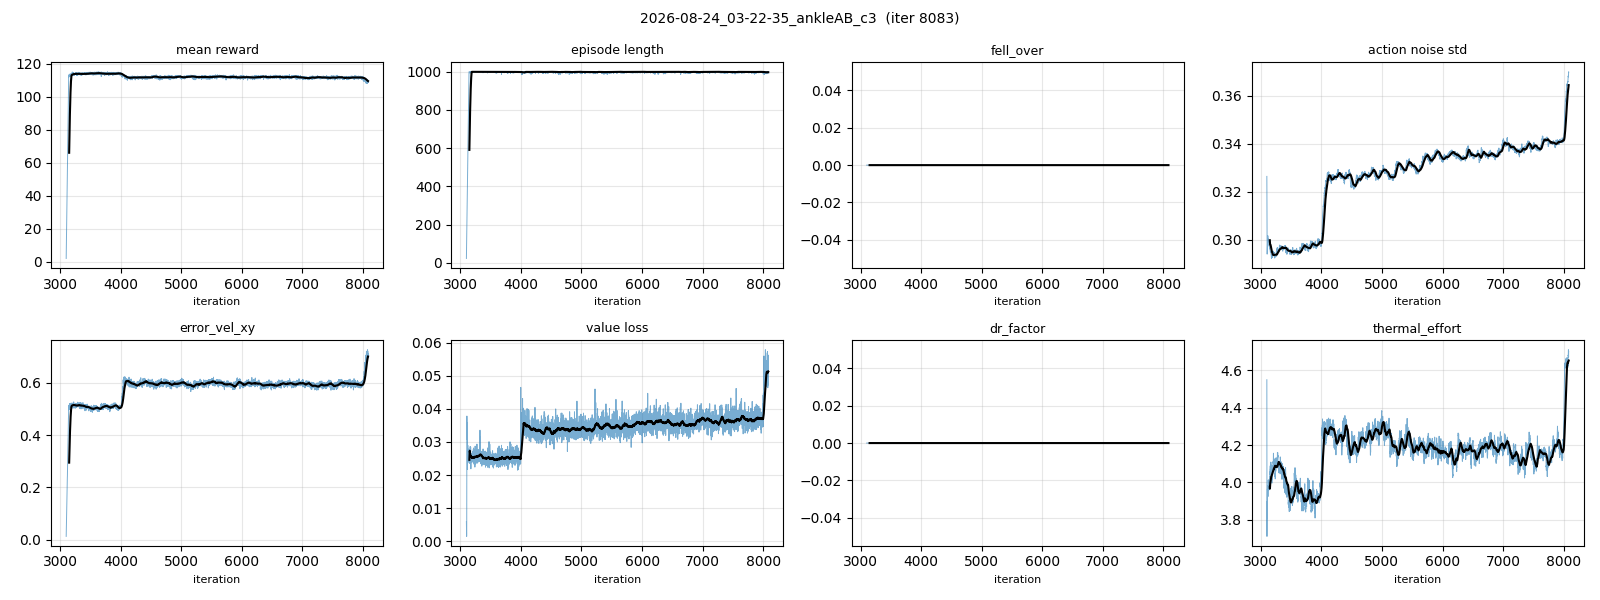
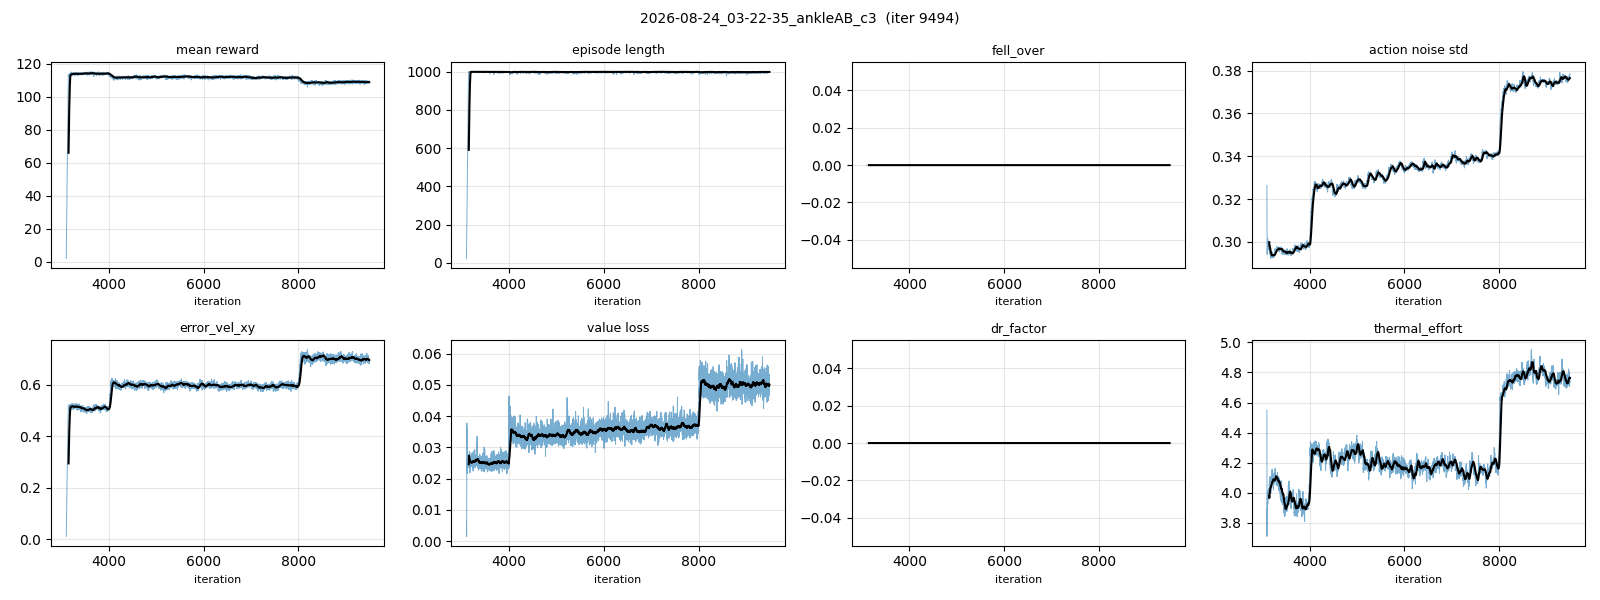
c3 progress sync: 9.5k/32k, DR ramp pending at 10k (registry + canvas + snapshot rows)

diff --git a/docs/66_experiment_registry.md b/docs/66_experiment_registry.md
@@ -114,7 +114,7 @@
 |---|---|---|---|
 | ~~ankleAB_c1 / ankleRP_c1~~ (`20-45-09/27`, ✗ iter 172 중단) | 팔이 영점(매달림)으로 weld → hip_roll 링크와 14 mm 관통 | — | ✗ 상체 팔 15° 외전 고정 후 c2로 재시작 |
 | (config-test) ankleAB_softtest / softtest2 [[2026-08-24_ankleAB_softtest]] [[2026-08-24_ankleAB_softtest2]] (02:00 / 02:43, c2r 3100+800 iter, 1024 env) | soft-landing 항 형태: 선형 w −2 vs 제곱 w −1 | 접지속도 1.24 → **2.42**(선형, 해킹) / **0.98**(제곱) m/s; 피크 1.50 → 1.66 / 1.31 BW | 선형 기각·제곱 채택 → c3 |
-| **ankleAB_c3 / ankleRP_c3** "flat-2.5max gen21-bundle+**soft-landing** curriculum-dr+push ankle-AB / -RP (2026-08-24)" (`03-22-35` / `03-22-58`, 🔄학습중, 각 model_3100에서 warm-start, 총 32k) [[2026-08-24_ankleAB_c3]] [[2026-08-24_ankleRP_c3]] | c2 + `PYG_SOFT_LANDING` (foot_impact_velocity Σrelu(−v_z)²·[h<0.10∧공중] w −1, contact_force_cap 420/560 N) — 두 arm 동일, 3100까지 이력 동일 | 시험(AB 3100+800, 1024env): 접지속도 1.24→0.98 m/s, GRF 피크 1.50→1.31 BW, 추종 유지, 스윙높이 0.116→0.080 m(감시) | 🔄 4k(vx1.2): AB 0.90 m/s·1.00 BW / RP 1.14·1.22 · 8k(vx1.6): **RP가 더 부드러움** 0.85·1.03 vs AB 0.93·1.23, 접지 p90 1.96 꼬리, ⚠AB 정지 제자리걸음(발움직임 0.115 m/s·duty 0.87→12k 재확인). 스윙 0.112/0.082 m > 역치 → w −1 유지. 1:1 영상·그림 [[93_ankle_ab_rp_comparison_plan]] §5c. 선형형은 해킹(2.42 m/s)으로 기각 — [[95_soft_landing_prescription]] |
+| **ankleAB_c3 / ankleRP_c3** "flat-2.5max gen21-bundle+**soft-landing** curriculum-dr+push ankle-AB / -RP (2026-08-24)" (`03-22-35` / `03-22-58`, 🔄학습중 9.5k/32k, ETA 08-25 18:40) [[2026-08-24_ankleAB_c3]] [[2026-08-24_ankleRP_c3]] | c2 + `PYG_SOFT_LANDING` (foot_impact_velocity Σrelu(−v_z)²·[h<0.10∧공중] w −1, contact_force_cap 420/560 N) — 두 arm 동일, 3100까지 이력 동일 | 시험(AB 3100+800, 1024env): 접지속도 1.24→0.98 m/s, GRF 피크 1.50→1.31 BW, 추종 유지, 스윙높이 0.116→0.080 m(감시) | 🔄 4k(vx1.2): AB 0.90 m/s·1.00 BW / RP 1.14·1.22 · 8k(vx1.6): **RP가 더 부드러움** 0.85·1.03 vs AB 0.93·1.23, 접지 p90 1.96 꼬리, ⚠AB 정지 제자리걸음(발움직임 0.115 m/s·duty 0.87→12k 재확인). 스윙 0.112/0.082 m > 역치 → w −1 유지. 1:1 영상·그림 [[93_ankle_ab_rp_comparison_plan]] §5c. 선형형은 해킹(2.42 m/s)으로 기각 — [[95_soft_landing_prescription]] |
 | **ankleAB_c2 → c2r** "flat-2.5max gen21-bundle curriculum-dr+push ankle-AB-loop (2026-08-23)" (`21-02-10` → OOM iter1252 → `23-17-35_ankleAB_c2r` resume model_1200, ⏸ iter 4400에서 중단 → c3로 계승) [[2026-08-23_ankleAB_c2]] | vs gen21_bent_p2: 프린트 질량·실측 모터(RS04 J .0163/b .0095/tc .269, RS03 .0153/.0223/.285)·T-N 곡선·**폐루프 발목(크랭크 RS03 ×2, Kp 22.3/Kd 1.41/60 N·m)**·단일 런 커리큘럼(DR 10k→20k, vx 단계 2.5@16k)·16384 env·상체 weld+팔 15° 외전 고정·hip_yaw ±45° | iter 610: reward 109·fell 0; iter 1200 분석(93 §5b): 보행 발목 17° 사용·토크 12.8 N·m·GRFc 1.39 BW, **정지 잔떨림+0.4 Hz 스웨이**; 최신 스냅샷 iter 2659(08-24 01:22): reward 114.1(50avg 114.4)·fell 0.000·err_vel_xy 0.509·thermal 4.02 | 🔄 CONTINUE (4k 게이트서 정지 떨림 재확인) |
 | (분석) 폐루프 구속 강성 solimp 전례·변인통제 [[94_loop_constraint_stiffness]] (2026-08-24) | 같은 AB 정책, 구속만 0.9→0.9999 5단계 | 튐 |Δτ| p99: 기본 18.0 / 0.99–0.9999 11–12 N·m, 폐루프 오차 8.4→0.08 mm | 0.999 유지; 학습 A/B(0.95/0.99·solref 5 ms, BRUCE 데드밴드)는 본런 후 |
 | **ankleRP_c2** "flat-2.5max gen21-bundle curriculum-dr+push ankle-RP-serial (2026-08-23)" (`2026-08-23_21-02-18`, ⏸ iter 3400에서 중단 → c3로 계승) [[2026-08-23_ankleRP_c2]] | ankleAB_c2와 **단일변인 = 발목 기구**: 직렬 pitch/roll(Kp 28.5/Kd 1.81) + 루프 자코비안 크랭크공간 클램프(±60, T-N) + 반영 관성/마찰. env.yaml diff = 발목 항목만(launch 직후 확인) | iter 610: reward 113·fell 0; iter 1200 분석: 발목 10° 사용·**bang-bang 목표(−40↔+35°) PD 포화 토크 스파이크**·GRFc 1.51 BW; 최신 스냅샷 iter 3433(08-24 02:22): reward 113.5(50avg 113.8)·fell 0.000·err_vel_xy 0.509·thermal 3.56 | 🔄 CONTINUE |

diff --git a/docs/experiments/2026-08-24_ankleAB_c3.md b/docs/experiments/2026-08-24_ankleAB_c3.md
@@ -25,3 +25,7 @@
 | 08-24 09:27 | 7486 | 112.0 (50avg 111.7) | 1000 | 0.339 | 0.0366 | 2.91 | -0.0049 / 5.8e-04 | 0.000 / 0.000 | 0.580 / 0.485 | 0.00 / 1.2 | 4.14 | (자동 스냅샷, 판정은 게이트 리뷰에서) |
 | 08-24 10:10 | 8001 | 110.8 (50avg 111.6) | 996 | 0.342 | 0.0417 | 3.02 | -0.0053 / 5.8e-04 | 0.000 / 0.042 | 0.599 / 0.489 | 0.00 / 1.6 | 4.32 | vx1.2 구간 안정화(4.2k→8k): reward 111.8→112.0·err_vel 0.61→0.59 회복, fell 0, thermal 4.16 → CONTINUE. 4000 게이트 측정 완료(접지 0.90 m/s·피크 1.00 BW·스윙 0.092 m, docs/95 §7) — 해킹 징후 없음 |
 | 08-24 10:17 | 8083 | 108.8 (50avg 109.6) | 996 | 0.370 | 0.0482 | 3.95 | -0.0055 / 5.8e-04 | 0.000 / 0.208 | 0.713 / 0.524 | 0.00 / 1.6 | 4.70 | 8000 게이트 측정(vx 1.6 진입): 접지 0.93 m/s·피크 1.23 BW·하중률 104, 스윙 0.112 m(역치 위) → CONTINUE. ⚠정지 명령 제자리걸음(발움직임 0.009→0.115 m/s, duty 0.87) — 12k 재확인 대상, docs/95 §7 |
+| 08-24 10:27 | 8206 | 108.3 (50avg 108.5) | 1000 | 0.374 | 0.0461 | 4.10 | -0.0050 / 5.8e-04 | 0.000 / 0.083 | 0.711 / 0.539 | 0.00 / 1.6 | 4.71 | (자동 스냅샷, 판정은 게이트 리뷰에서) |
+| 08-24 11:17 | 8792 | 109.4 (50avg 108.9) | 1000 | 0.373 | 0.0525 | 4.08 | -0.0056 / 3.8e-04 | 0.000 / 0.083 | 0.691 / 0.536 | 0.00 / 1.6 | 4.73 | vx1.6 적응 중(8.6k): reward 111.6→108.5·err_vel 0.70(명령대역 확대분), fell 0, DR 아직 0(10k부터) → CONTINUE. AB/RP 1:1 비교영상 제작(docs/video/abrp_sidebyside_g8000.mp4, abrp_shadow_g8000.mp4) |
+| 08-24 11:28 | 8920 | 109.5 (50avg 108.9) | 1000 | 0.376 | 0.0533 | 4.14 | -0.0059 / 5.8e-04 | 0.000 / 0.083 | 0.715 / 0.539 | 0.00 / 1.6 | 4.81 | (자동 스냅샷, 판정은 게이트 리뷰에서) |
+| 08-24 12:16 | 9494 | 109.1 (50avg 109.0) | 1000 | 0.378 | 0.0479 | 4.26 | -0.0052 / 5.8e-04 | 0.000 / 0.042 | 0.693 / 0.538 | 0.00 / 1.6 | 4.76 | 9.5k(vx1.6 유지, DR 램프 직전): reward 109.1·err_vel 0.70·fell 0·low_base 0.08, impact_vel 0.151 유지 → CONTINUE. ETA 08-25 18:40 |

diff --git a/docs/experiments/2026-08-24_ankleRP_c3.md b/docs/experiments/2026-08-24_ankleRP_c3.md
@@ -25,3 +25,7 @@
 | 08-24 09:27 | 7479 | 111.9 (50avg 111.7) | 1000 | 0.336 | 0.0359 | 2.90 | -0.0055 / 5.8e-04 | 0.000 / 0.000 | 0.587 / 0.484 | 0.00 / 1.2 | 3.67 | (자동 스냅샷, 판정은 게이트 리뷰에서) |
 | 08-24 10:10 | 7993 | 111.4 (50avg 111.6) | 1000 | 0.340 | 0.0367 | 3.02 | -0.0049 / 5.8e-04 | 0.000 / 0.000 | 0.592 / 0.491 | 0.00 / 1.2 | 3.66 | vx1.2 구간 안정화(4.2k→8k): reward 112.5→111.4·err_vel 0.60→0.59, fell 0 → CONTINUE. 4000 게이트 측정 완료(접지 1.14 m/s·피크 1.22 BW·스윙 0.081 m) — AB보다 착지 21% 거침, docs/95 §7 |
 | 08-24 10:17 | 8076 | 109.4 (50avg 110.1) | 1000 | 0.368 | 0.0482 | 4.00 | -0.0053 / 5.8e-04 | 0.000 / 0.042 | 0.696 / 0.528 | 0.00 / 1.6 | 4.06 | 8000 게이트 측정(vx 1.6 진입): 접지 0.85 m/s·피크 1.03 BW·하중률 86 = AB보다 부드러움(4k와 역전), 스윙 0.082 m → CONTINUE. ⚠정지 발움직임 0.004→0.072 m/s 경미, docs/95 §7 |
+| 08-24 10:28 | 8198 | 107.4 (50avg 107.9) | 991 | 0.377 | 0.054 | 4.33 | -0.0047 / 5.8e-04 | 0.000 / 0.083 | 0.725 / 0.543 | 0.00 / 1.6 | 4.09 | (자동 스냅샷, 판정은 게이트 리뷰에서) |
+| 08-24 11:17 | 8785 | 107.3 (50avg 108.0) | 994 | 0.378 | 0.0568 | 4.35 | -0.0054 / 3.8e-04 | 0.000 / 0.042 | 0.719 / 0.539 | 0.00 / 1.6 | 4.09 | vx1.6 적응 중(8.6k): reward 108.0·err_vel 0.72, fell 0 → CONTINUE. AB와 동일 추세(격차 <1%) |
+| 08-24 11:28 | 8913 | 108.1 (50avg 107.9) | 1000 | 0.379 | 0.0528 | 4.40 | -0.0052 / 3.8e-04 | 0.000 / 0.042 | 0.711 / 0.540 | 0.00 / 1.6 | 4.06 | (자동 스냅샷, 판정은 게이트 리뷰에서) |
+| 08-24 12:16 | 9487 | 108.8 (50avg 108.5) | 1000 | 0.378 | 0.0537 | 4.35 | -0.0064 / 5.8e-04 | 0.000 / 0.042 | 0.697 / 0.539 | 0.00 / 1.6 | 4.03 | 9.4k: reward 107.8·err_vel 0.68·fell 0·low_base 0.08, impact_vel 0.167 → CONTINUE. AB와 동률(±1%) |
